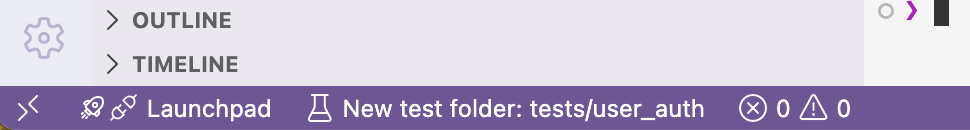
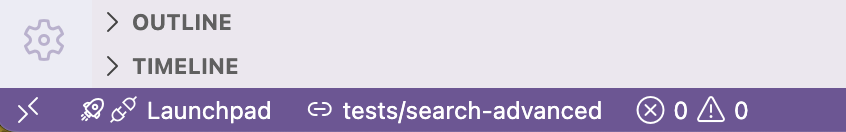
Reveal folder instead of open it in new window

diff --git a/extension.js b/extension.js
@@ -77,10 +77,10 @@ function activate(context)
 
     async function openLastCreatedFolder(folderUri)
     {
+        await vscode.commands.executeCommand('workbench.view.explorer');
         await vscode.commands.executeCommand(
-            'vscode.openFolder',
-            folderUri,
-            true
+            'revealInExplorer',
+            folderUri
         );
     }
 
@@ -133,7 +133,7 @@ function activate(context)
                 );
 
             statusBarItem.text =
-                `$(beaker) New test folder: ${label}`;
+                `$(link) ${label}`;
 
             statusBarItem.command =
             {
